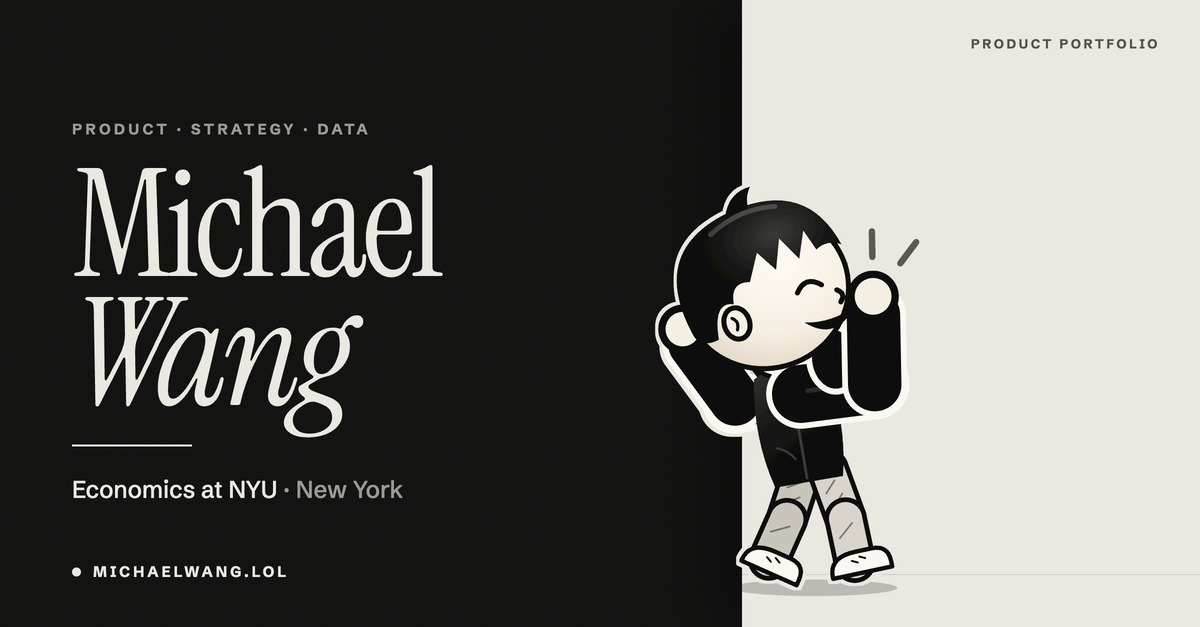
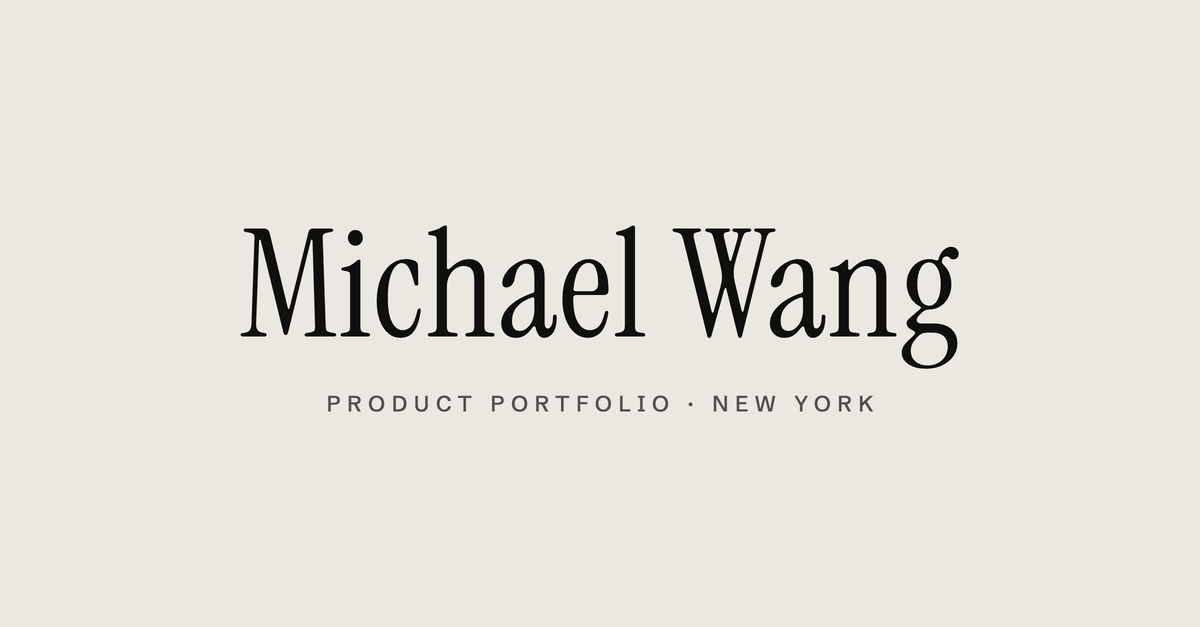
Share card: match the intro's white screen

diff --git a/index.html b/index.html
@@ -15,7 +15,7 @@
 <meta property="og:image:type" content="image/png">
 <meta property="og:image:width" content="1200">
 <meta property="og:image:height" content="627">
-<meta property="og:image:alt" content="Michael Wang, product portfolio: a cartoon of Michael flexing beside his name">
+<meta property="og:image:alt" content="Michael Wang, product portfolio, New York">
 <meta name="twitter:card" content="summary_large_image">
 <meta name="twitter:title" content="Michael Wang">
 <meta name="twitter:image" content="https://michaelwang.lol/og-image.png">
